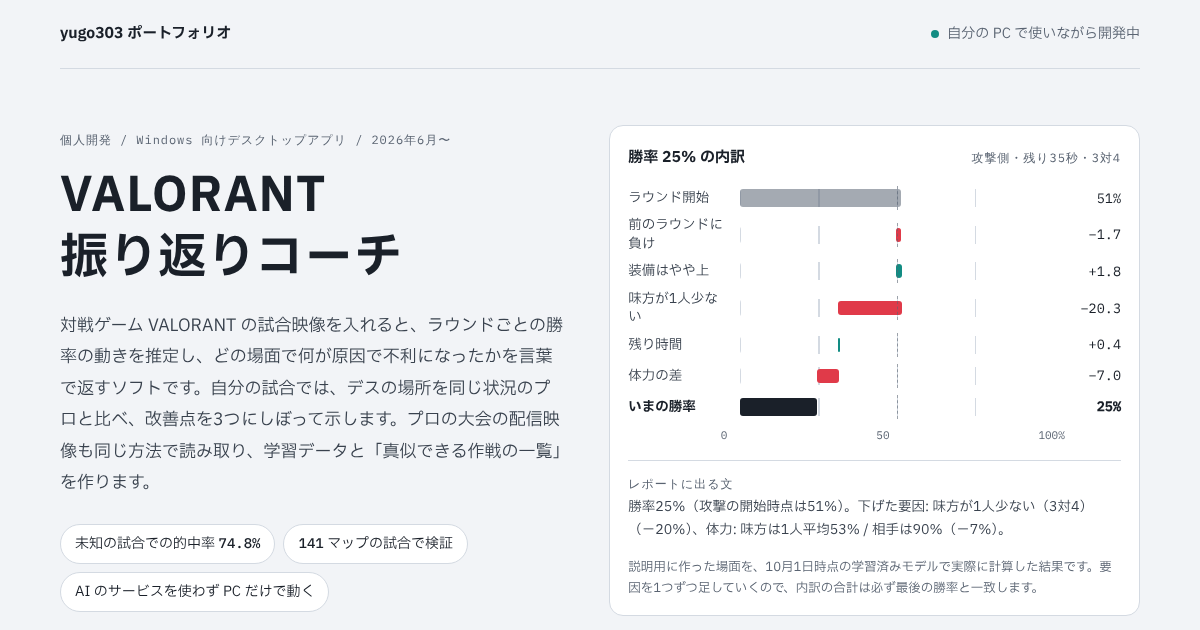
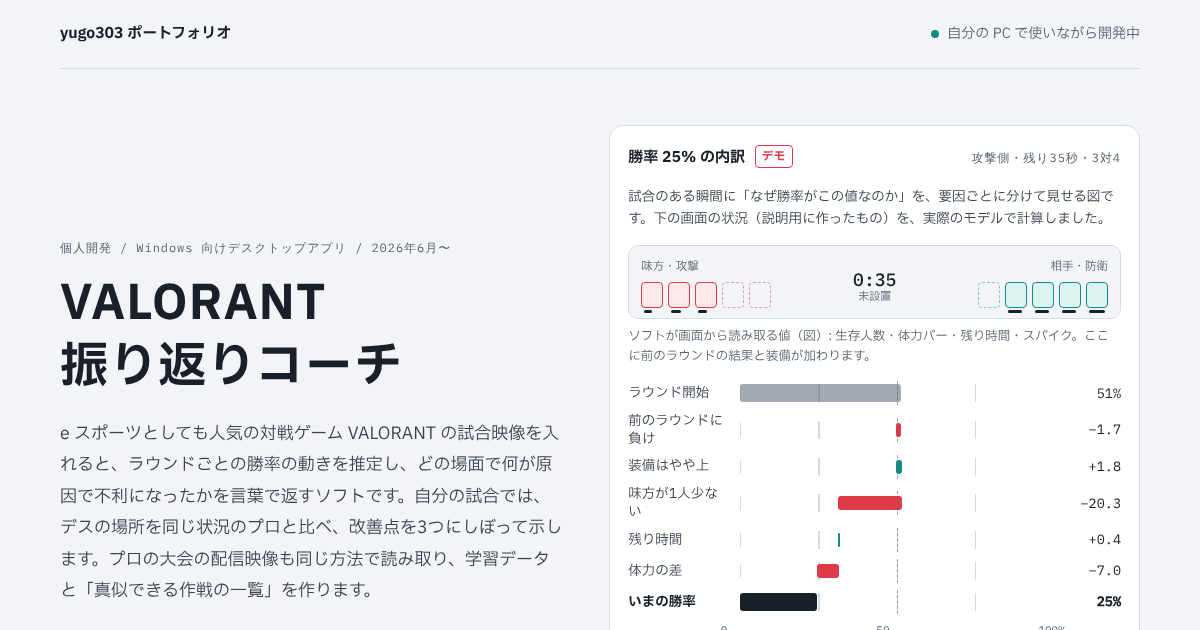
VALORANT 振り返りコーチ: 「VALORANT とは」の章と、勝率の内訳がデモであることの説明・画面の図を追加
Claude-Session: https://claude.ai/code/session_01GiX7imDTXVP7WUeB6qDmoP

diff --git a/valorant-coach/index.html b/valorant-coach/index.html
@@ -98,6 +98,25 @@ a { color: var(--def); }
 .out .label { display: block; margin-bottom: 2px; }
 .why figcaption { font-size: 12.5px; color: var(--muted); line-height: 1.7; }
 
+.demo { display: inline-block; font-size: 11.5px; font-weight: 700; color: var(--atk); border: 1px solid var(--atk); border-radius: 4px; padding: 0 6px; margin-left: 6px; vertical-align: 2px; letter-spacing: 0.04em; }
+.what { font-size: 13.5px; color: var(--soft); line-height: 1.7; }
+.hud { display: grid; grid-template-columns: minmax(0, 1fr) auto minmax(0, 1fr); gap: 12px; align-items: end; background: var(--paper); border: 1px solid var(--line); border-radius: 10px; padding: 10px 12px; }
+.hud .team { display: grid; gap: 4px; }
+.hud .team.def { justify-items: end; }
+.hud .who { font-size: 11.5px; color: var(--muted); }
+.hud .slots { display: flex; gap: 5px; }
+.hud .team.def .slots { flex-direction: row-reverse; }
+.hud .p { position: relative; width: 22px; height: 26px; border-radius: 4px; display: block; }
+.hud .atk .p { background: var(--atk-soft); border: 1.5px solid var(--atk); }
+.hud .def .p { background: var(--def-soft); border: 1.5px solid var(--def); }
+.hud .p::after { content: ""; position: absolute; left: 2px; bottom: -6px; height: 3px; width: calc((100% - 4px) * var(--hp, 0) / 100%); border-radius: 2px; background: var(--ink); }
+.hud .p.dead { background: transparent; border-style: dashed; opacity: .45; }
+.hud .p.dead::after { display: none; }
+.hud .clock { display: grid; justify-items: center; line-height: 1.2; padding-bottom: 4px; }
+.hud .clock b { font-family: var(--f-mono); font-size: 18px; font-weight: 500; }
+.hud .clock span { font-size: 11px; color: var(--muted); }
+.hud-cap { font-size: 12.5px; color: var(--muted); line-height: 1.6; margin-top: -6px; }
+
 /* 目次 */
 .toc { border: 1px solid var(--line); border-radius: 14px; background: var(--panel); padding: 18px 22px; display: grid; gap: 10px; margin-bottom: 48px; scroll-margin-top: 16px; }
 .toc ol { list-style: none; margin: 0; padding: 0; display: grid; grid-template-columns: repeat(2, minmax(0, 1fr)); grid-template-rows: repeat(6, auto); grid-auto-flow: column; gap: 4px 32px; }
@@ -261,6 +280,10 @@ a:focus-visible { outline: 2px solid var(--def); outline-offset: 2px; }
   .out, .why figcaption, .note, .wide figcaption, .pair figcaption { font-size: 14.5px; }
   .chapter h2 { font-size: 25px; }
   .shot-report .cap p { font-size: 15.5px; }
+  .hud { gap: 6px; padding: 10px 8px; }
+  .hud .slots { gap: 3px; }
+  .hud .p { width: 17px; height: 22px; }
+  .what, .hud-cap { font-size: 14.5px; }
   .pillar p, .stat p, .fix p, .role p, .decisions dd, .stack dd, .timeline span, .reads li span, .next li span, .app li, .split span, .pivot span:not(.label) { font-size: 15.5px; }
   .tbl table { font-size: 15px; }
   .fix { padding: 16px; }
@@ -294,7 +317,7 @@ a:focus-visible { outline: 2px solid var(--def); outline-offset: 2px; }
     <div>
       <p class="label">個人開発 / Windows 向けデスクトップアプリ / 2026年6月〜</p>
       <h1 style="margin-top: 14px;">VALORANT <span style="display: inline-block;">振り返りコーチ</span></h1>
-      <p class="lead">対戦ゲーム VALORANT の試合映像を入れると、ラウンドごとの勝率の動きを推定し、どの場面で何が原因で不利になったかを言葉で返すソフトです。自分の試合では、デスの場所を同じ状況のプロと比べ、改善点を3つにしぼって示します。プロの大会の配信映像も同じ方法で読み取り、学習データと「真似できる作戦の一覧」を作ります。</p>
+      <p class="lead">e スポーツとしても人気の対戦ゲーム VALORANT の試合映像を入れると、ラウンドごとの勝率の動きを推定し、どの場面で何が原因で不利になったかを言葉で返すソフトです。自分の試合では、デスの場所を同じ状況のプロと比べ、改善点を3つにしぼって示します。プロの大会の配信映像も同じ方法で読み取り、学習データと「真似できる作戦の一覧」を作ります。</p>
       <div class="facts">
         <span class="fact">未知の試合での的中率 <b>74.8%</b></span>
         <span class="fact"><b>141</b> マップの試合で検証</span>
@@ -302,7 +325,20 @@ a:focus-visible { outline: 2px solid var(--def); outline-offset: 2px; }
       </div>
     </div>
     <figure class="why" aria-label="勝率の内訳の例。攻撃の開始時点51%から、前のラウンドの負けでマイナス1.7、装備でプラス1.8、味方が1人少ないことでマイナス20.3、残り時間でプラス0.4、体力の差でマイナス7.0となり、勝率25%。">
-      <div class="head"><b>勝率 25% の内訳</b><span class="label">攻撃側・残り35秒・3対4</span></div>
+      <div class="head"><b>勝率 25% の内訳 <span class="demo">デモ</span></b><span class="label">攻撃側・残り35秒・3対4</span></div>
+      <p class="what">試合のある瞬間に「なぜ勝率がこの値なのか」を、要因ごとに分けて見せる図です。下の画面の状況（説明用に作ったもの）を、実際のモデルで計算しました。</p>
+      <div class="hud" role="img" aria-label="画面上部の図。左の味方（攻撃）は5人中3人が生存、体力は少なめ。中央の残り時間は0:35でスパイクは未設置。右の相手（防衛）は5人中4人が生存、体力はほぼ満タン。">
+        <div class="team atk">
+          <span class="who">味方・攻撃</span>
+          <div class="slots"><i class="p" style="--hp:45%"></i><i class="p" style="--hp:60%"></i><i class="p" style="--hp:55%"></i><i class="p dead"></i><i class="p dead"></i></div>
+        </div>
+        <div class="clock"><b>0:35</b><span>未設置</span></div>
+        <div class="team def">
+          <span class="who">相手・防衛</span>
+          <div class="slots"><i class="p" style="--hp:100%"></i><i class="p" style="--hp:85%"></i><i class="p" style="--hp:90%"></i><i class="p" style="--hp:85%"></i><i class="p dead"></i></div>
+        </div>
+      </div>
+      <p class="hud-cap">ソフトが画面から読み取る値（図）: 生存人数・体力バー・残り時間・スパイク。ここに前のラウンドの結果と装備が加わります。</p>
       <div class="wf">
         <div class="wf-row"><span class="k">ラウンド開始</span><div class="track"><i class="bar base" style="left:0;width:51.4%"></i></div><span class="v">51%</span></div>
         <div class="wf-row"><span class="k">前のラウンドに負け</span><div class="track"><i class="bar down" style="left:49.7%;width:1.7%"></i></div><span class="v">−1.7</span></div>
@@ -314,36 +350,58 @@ a:focus-visible { outline: 2px solid var(--def); outline-offset: 2px; }
         <div class="axis"><span></span><div><span>0</span><span>50</span><span>100%</span></div><span></span></div>
       </div>
       <p class="out"><span class="label">レポートに出る文</span>勝率25%（攻撃の開始時点は51%）。下げた要因: 味方が1人少ない（3対4）（−20%）、体力: 味方は1人平均53% / 相手は90%（−7%）。</p>
-      <figcaption>説明用に作った場面を、10月1日時点の学習済みモデルで実際に計算した結果です。要因を1つずつ足していくので、内訳の合計は必ず最後の勝率と一致します。</figcaption>
+      <figcaption>場面は説明用に作ったもので、実際の試合ではありません。計算には10月1日時点の学習済みモデルを使っています。要因を1つずつ足していくので、内訳の合計は必ず最後の勝率と一致します。</figcaption>
     </figure>
   </header>
 
   <nav class="toc" id="toc" aria-label="目次">
     <span class="label">目次</span>
     <ol>
-      <li><a href="#problem"><span>01</span>作ろうと思ったきっかけ</a></li>
-      <li><a href="#approach"><span>02</span>3つの方針</a></li>
-      <li><a href="#how"><span>03</span>仕組み</a></li>
-      <li><a href="#accuracy"><span>04</span>精度の記録</a></li>
-      <li><a href="#craft"><span>05</span>工夫したところ</a></li>
-      <li><a href="#screens"><span>06</span>画面と機能</a></li>
-      <li><a href="#tech"><span>07</span>技術と構成</a></li>
-      <li><a href="#process"><span>08</span>開発の進め方</a></li>
-      <li><a href="#log"><span>09</span>制作の記録</a></li>
-      <li><a href="#learned"><span>10</span>学んだこと・変わったこと</a></li>
-      <li><a href="#next"><span>11</span>これから</a></li>
+      <li><a href="#about"><span>01</span>VALORANT とは</a></li>
+      <li><a href="#problem"><span>02</span>作ろうと思ったきっかけ</a></li>
+      <li><a href="#approach"><span>03</span>3つの方針</a></li>
+      <li><a href="#how"><span>04</span>仕組み</a></li>
+      <li><a href="#accuracy"><span>05</span>精度の記録</a></li>
+      <li><a href="#craft"><span>06</span>工夫したところ</a></li>
+      <li><a href="#screens"><span>07</span>画面と機能</a></li>
+      <li><a href="#tech"><span>08</span>技術と構成</a></li>
+      <li><a href="#process"><span>09</span>開発の進め方</a></li>
+      <li><a href="#log"><span>10</span>制作の記録</a></li>
+      <li><a href="#learned"><span>11</span>学んだこと・変わったこと</a></li>
+      <li><a href="#next"><span>12</span>これから</a></li>
     </ol>
   </nav>
 
-  <section class="chapter" id="problem">
+  <section class="chapter" id="about">
     <header>
       <span class="label">01</span>
+      <h2>VALORANT とは</h2>
+      <a class="back" href="#toc">↑ 目次へ</a>
+    </header>
+    <div class="body">
+      <p>VALORANT（ヴァロラント）は、Riot Games が 2020 年に出した無料の対戦ゲームです。5 人ずつのチームで撃ち合う一人称視点のシューティングで、世界大会 VALORANT Champions Tour（VCT）が毎年開かれる、人気の e スポーツでもあります。</p>
+      <p>試合はラウンドの積み重ねです。片方が攻撃、もう片方が防衛になり、攻撃は爆弾（スパイク）を決まった場所に設置して爆発させるか、相手を全員倒せば勝ち。防衛は設置を防ぐか、設置されたスパイクを解除すれば勝ちです。前半と後半で攻守を入れ替え、先に 13 ラウンドを取ったチームが試合に勝ちます。</p>
+      <ul class="reads terms">
+        <li>ラウンド<span>1回の攻防。1ラウンドは約1分40秒で、倒された選手はそのラウンドの間は戻れない</span></li>
+        <li>スパイク<span>攻撃側が設置する爆弾。設置すると約45秒で爆発するので、防衛は解除を急ぐ</span></li>
+        <li>お金と装備<span>ラウンドごとに稼いだお金で武器やシールドを買う。節約する回を「エコ」、全員がしっかり買う回を「フルバイ」と呼ぶ</span></li>
+        <li>エージェント<span>選べるキャラクター。それぞれ煙や索敵などのスキルと、たまると使える必殺技（アルティメット）を持つ</span></li>
+        <li>ミニマップ<span>画面の隅の小さな地図。味方と、見えている相手の位置が顔アイコンで出る</span></li>
+        <li>トレード<span>味方が倒された直後に、倒した相手をすぐ倒し返すこと。できないと人数で不利になる</span></li>
+      </ul>
+      <p>人数・お金・時間・位置が刻々と変わるので、同じ撃ち合いでも、どの状況で起きたかで勝ちやすさが大きく違います。このソフトは、その状況を映像から読み取って数字にします。</p>
+    </div>
+  </section>
+
+  <section class="chapter" id="problem">
+    <header>
+      <span class="label">02</span>
       <h2>作ろうと思ったきっかけ</h2>
       <a class="back" href="#toc">↑ 目次へ</a>
     </header>
     <div class="body">
       <p>e スポーツにはまっていて、ゲームをただプレイするだけでなく、知識を活かして上手くなる方法はないかと考えていました。そこで思いついたのが、データを使った解析で自分の行動を振り返り、改善していくことです。</p>
-      <p>VALORANT は 5 対 5 で攻撃と防衛に分かれ、先に 13 ラウンドを取ったチームが勝つゲームです。戦績サイトではキル数や勝敗は分かりますが、ラウンドの中の「どの瞬間に、なぜ不利になったか」は、自分でリプレイを見返して考えるしかありません。そのため最初から、試合の映像そのものから人数や時間を読み取り、場面ごとの勝率を出すことを目指しました。</p>
+      <p>戦績サイトではキル数や勝敗は分かりますが、ラウンドの中の「どの瞬間に、なぜ不利になったか」は、自分でリプレイを見返して考えるしかありません。そのため最初から、試合の映像そのものから人数や時間を読み取り、場面ごとの勝率を出すことを目指しました。</p>
       <div class="pivot">
         <div><span class="label">戦績サイトで分かること</span><b>試合ごとの成績</b><span>キル数・ダメージ・勝敗などの合計</span></div>
         <div class="to" aria-hidden="true">→</div>
@@ -354,7 +412,7 @@ a:focus-visible { outline: 2px solid var(--def); outline-offset: 2px; }
 
   <section class="chapter" id="approach">
     <header>
-      <span class="label">02</span>
+      <span class="label">03</span>
       <h2>3つの方針</h2>
       <a class="back" href="#toc">↑ 目次へ</a>
     </header>
@@ -378,7 +436,7 @@ a:focus-visible { outline: 2px solid var(--def); outline-offset: 2px; }
 
   <section class="chapter" id="how">
     <header>
-      <span class="label">03</span>
+      <span class="label">04</span>
       <h2>仕組み</h2>
       <a class="back" href="#toc">↑ 目次へ</a>
     </header>
@@ -464,7 +522,7 @@ a:focus-visible { outline: 2px solid var(--def); outline-offset: 2px; }
 
   <section class="chapter" id="accuracy">
     <header>
-      <span class="label">04</span>
+      <span class="label">05</span>
       <h2>精度の記録</h2>
       <a class="back" href="#toc">↑ 目次へ</a>
     </header>
@@ -495,7 +553,7 @@ a:focus-visible { outline: 2px solid var(--def); outline-offset: 2px; }
 
   <section class="chapter" id="craft">
     <header>
-      <span class="label">05</span>
+      <span class="label">06</span>
       <h2>工夫したところ</h2>
       <a class="back" href="#toc">↑ 目次へ</a>
     </header>
@@ -547,7 +605,7 @@ a:focus-visible { outline: 2px solid var(--def); outline-offset: 2px; }
 
   <section class="chapter" id="screens">
     <header>
-      <span class="label">06</span>
+      <span class="label">07</span>
       <h2>画面と機能</h2>
       <a class="back" href="#toc">↑ 目次へ</a>
     </header>
@@ -640,7 +698,7 @@ a:focus-visible { outline: 2px solid var(--def); outline-offset: 2px; }
 
   <section class="chapter" id="tech">
     <header>
-      <span class="label">07</span>
+      <span class="label">08</span>
       <h2>技術と構成</h2>
       <a class="back" href="#toc">↑ 目次へ</a>
     </header>
@@ -667,7 +725,7 @@ a:focus-visible { outline: 2px solid var(--def); outline-offset: 2px; }
 
   <section class="chapter" id="process">
     <header>
-      <span class="label">08</span>
+      <span class="label">09</span>
       <h2>開発の進め方</h2>
       <a class="back" href="#toc">↑ 目次へ</a>
     </header>
@@ -698,7 +756,7 @@ a:focus-visible { outline: 2px solid var(--def); outline-offset: 2px; }
 
   <section class="chapter" id="log">
     <header>
-      <span class="label">09</span>
+      <span class="label">10</span>
       <h2>制作の記録</h2>
       <a class="back" href="#toc">↑ 目次へ</a>
     </header>
@@ -725,7 +783,7 @@ a:focus-visible { outline: 2px solid var(--def); outline-offset: 2px; }
 
   <section class="chapter" id="learned">
     <header>
-      <span class="label">10</span>
+      <span class="label">11</span>
       <h2>学んだこと・変わったこと</h2>
       <a class="back" href="#toc">↑ 目次へ</a>
     </header>
@@ -746,7 +804,7 @@ a:focus-visible { outline: 2px solid var(--def); outline-offset: 2px; }
 
   <section class="chapter" id="next">
     <header>
-      <span class="label">11</span>
+      <span class="label">12</span>
       <h2>これから</h2>
       <a class="back" href="#toc">↑ 目次へ</a>
     </header>
